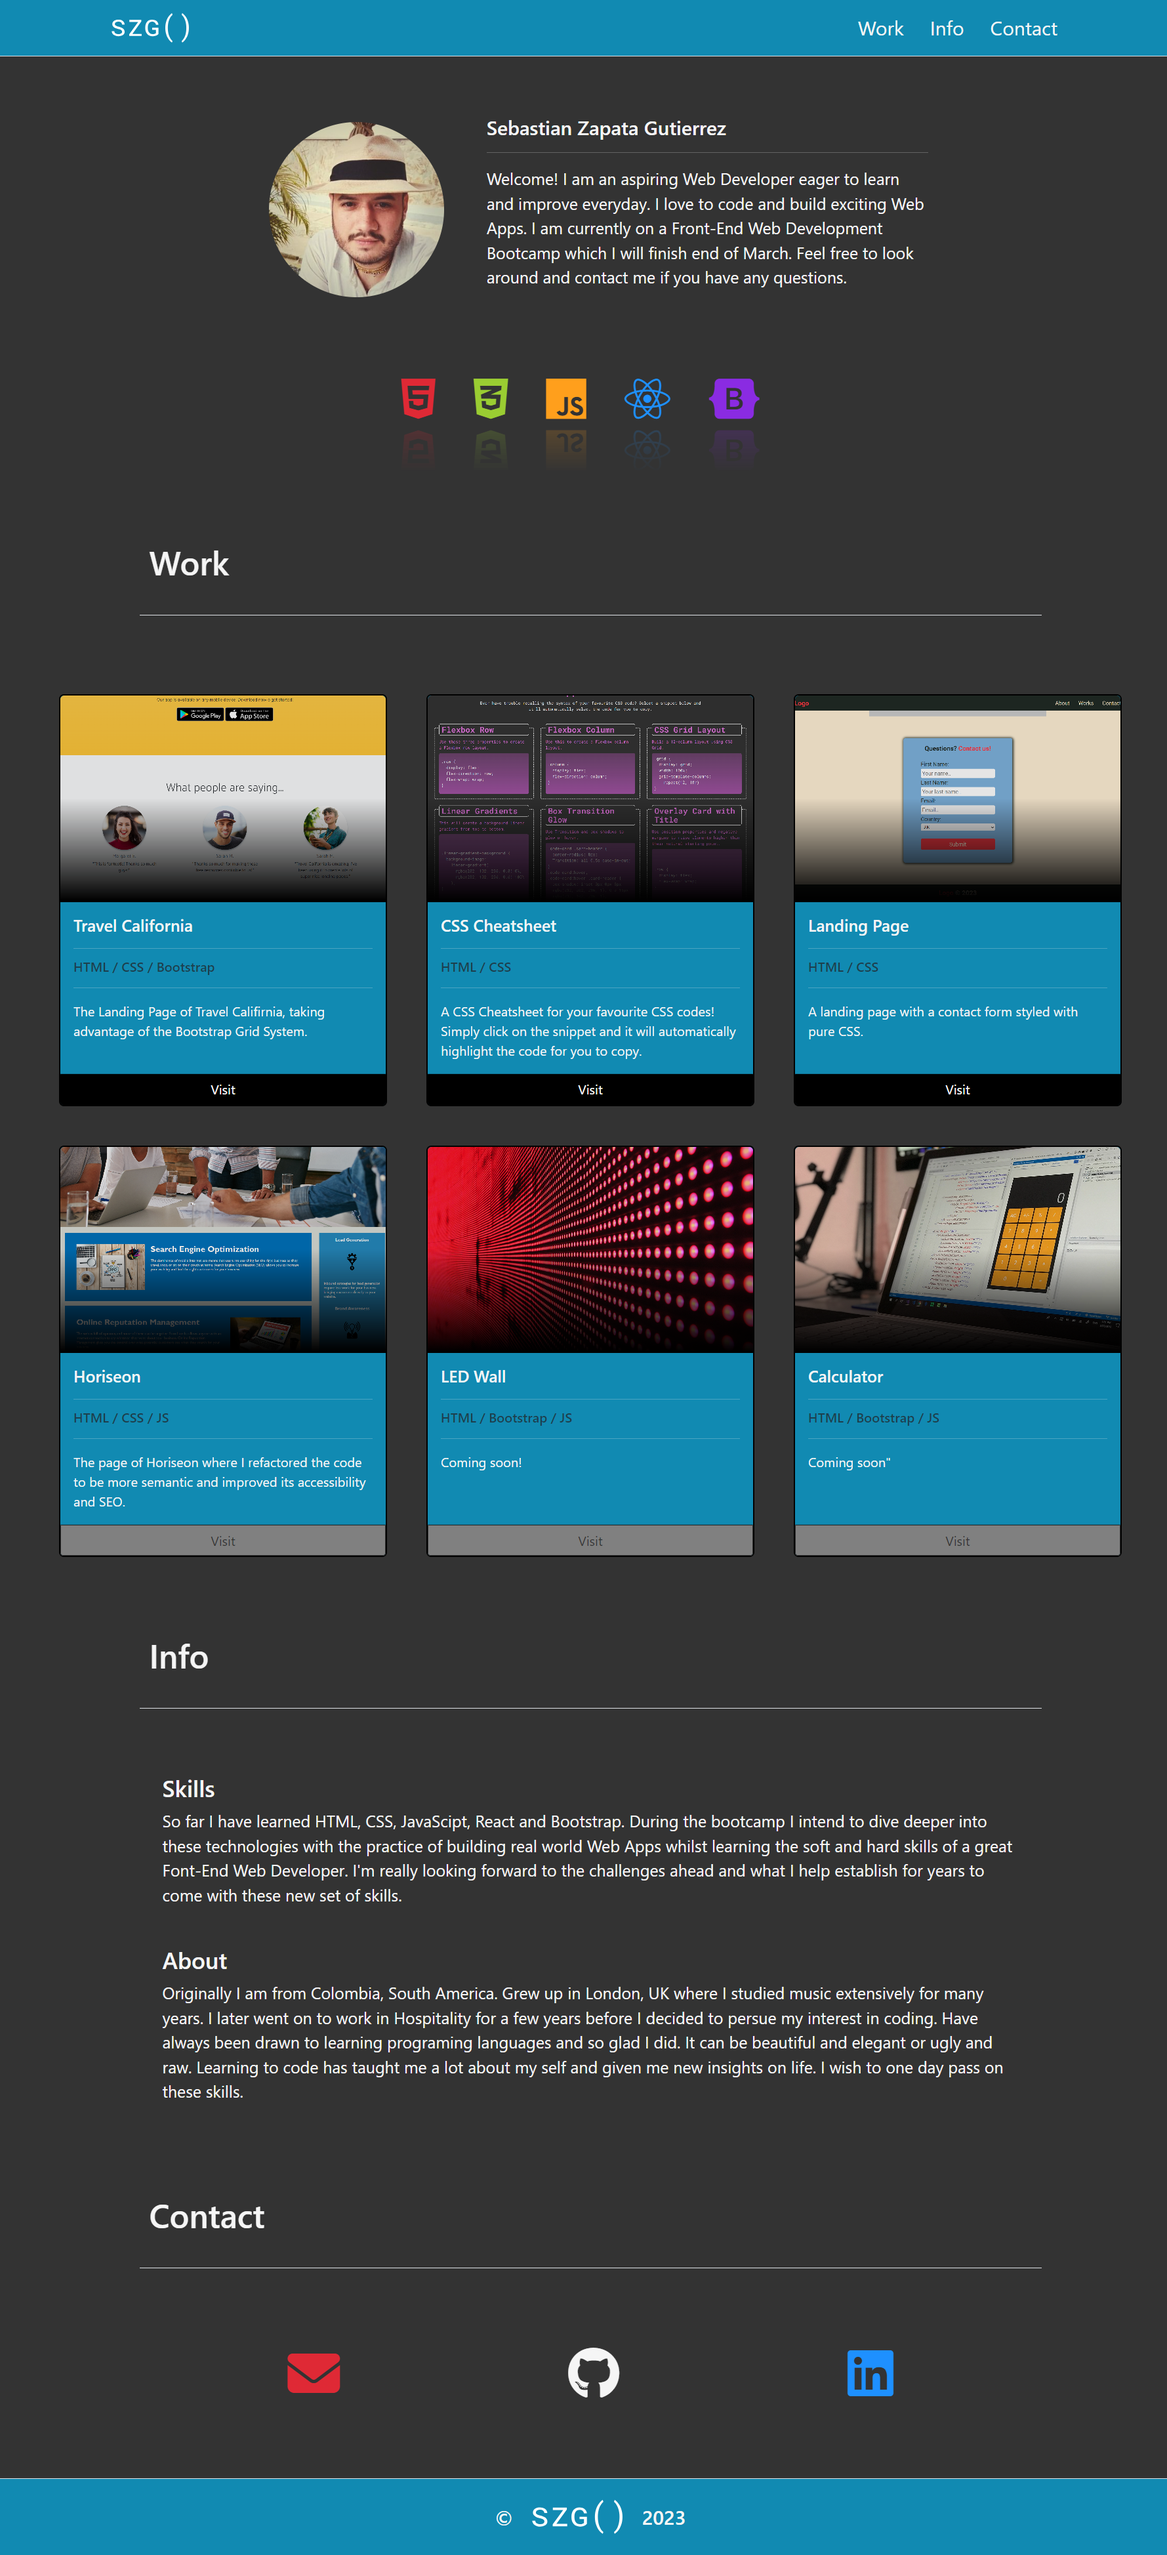
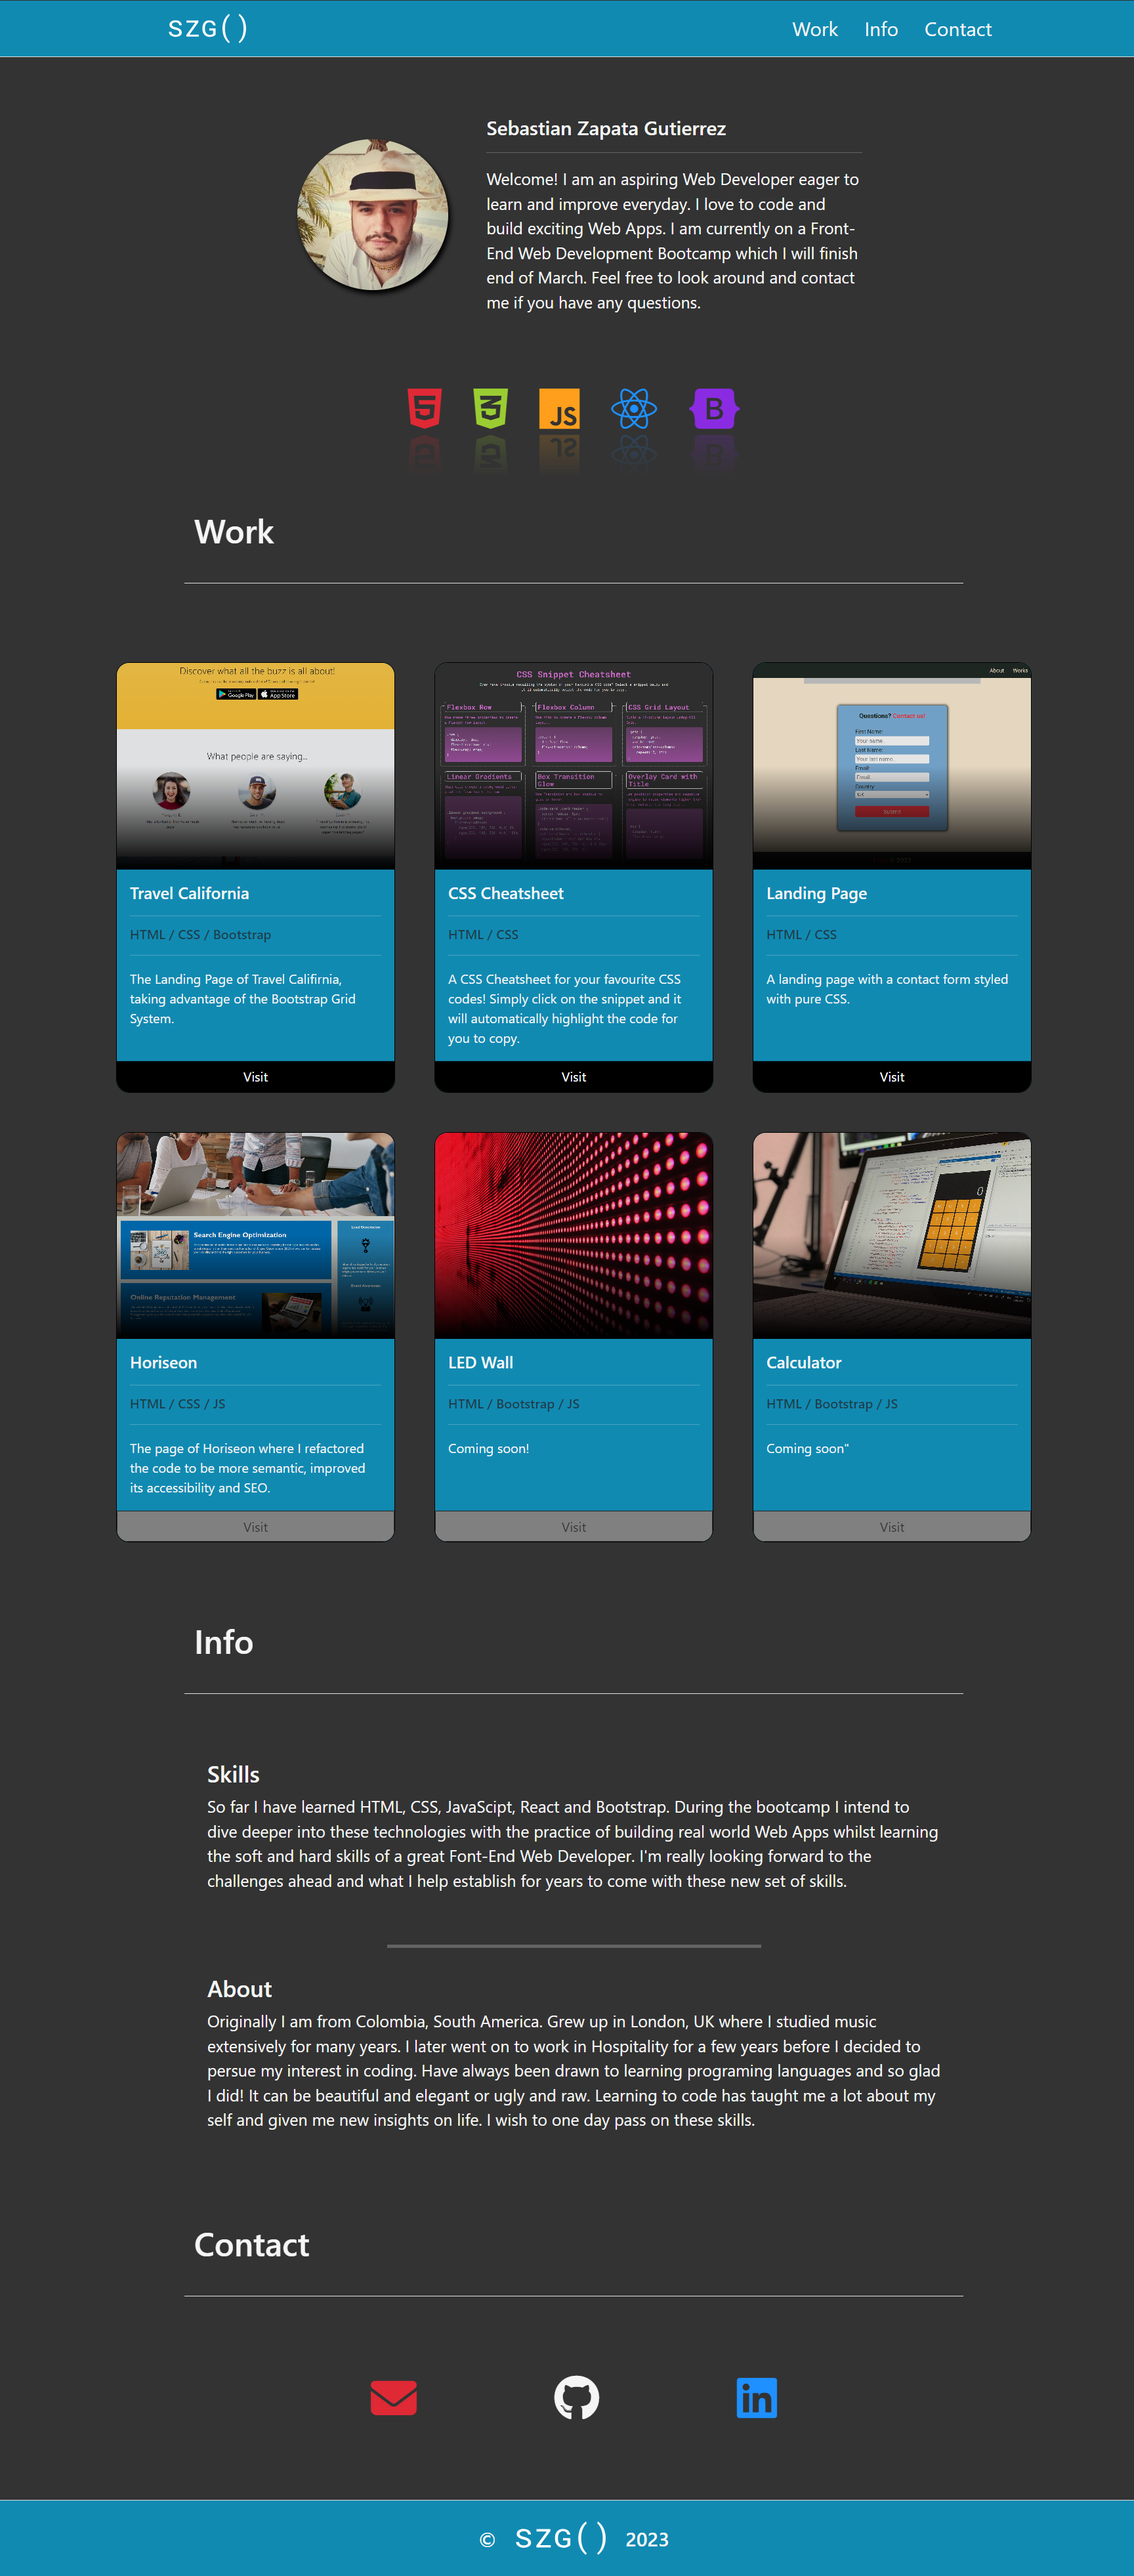
Update README

diff --git a/README.md b/README.md
@@ -16,6 +16,16 @@ Here I take advantage of Bootstrap's components, 12 column grid system. The use 
 - [**Bootstrap**](https://getbootstrap.com/)
 
 ##
-### Demo
+### Desktop
 
 ![](./resources/images/Bootstrap-Portfolio-Desktop.png)
+
+##
+### Tablet
+
+![](./resources/images/Bootstrap-Portfolio-Tablet.png)
+
+##
+### Mobile
+
+![](./resources/images/Bootstrap-Portfolio-Mobile.png)
